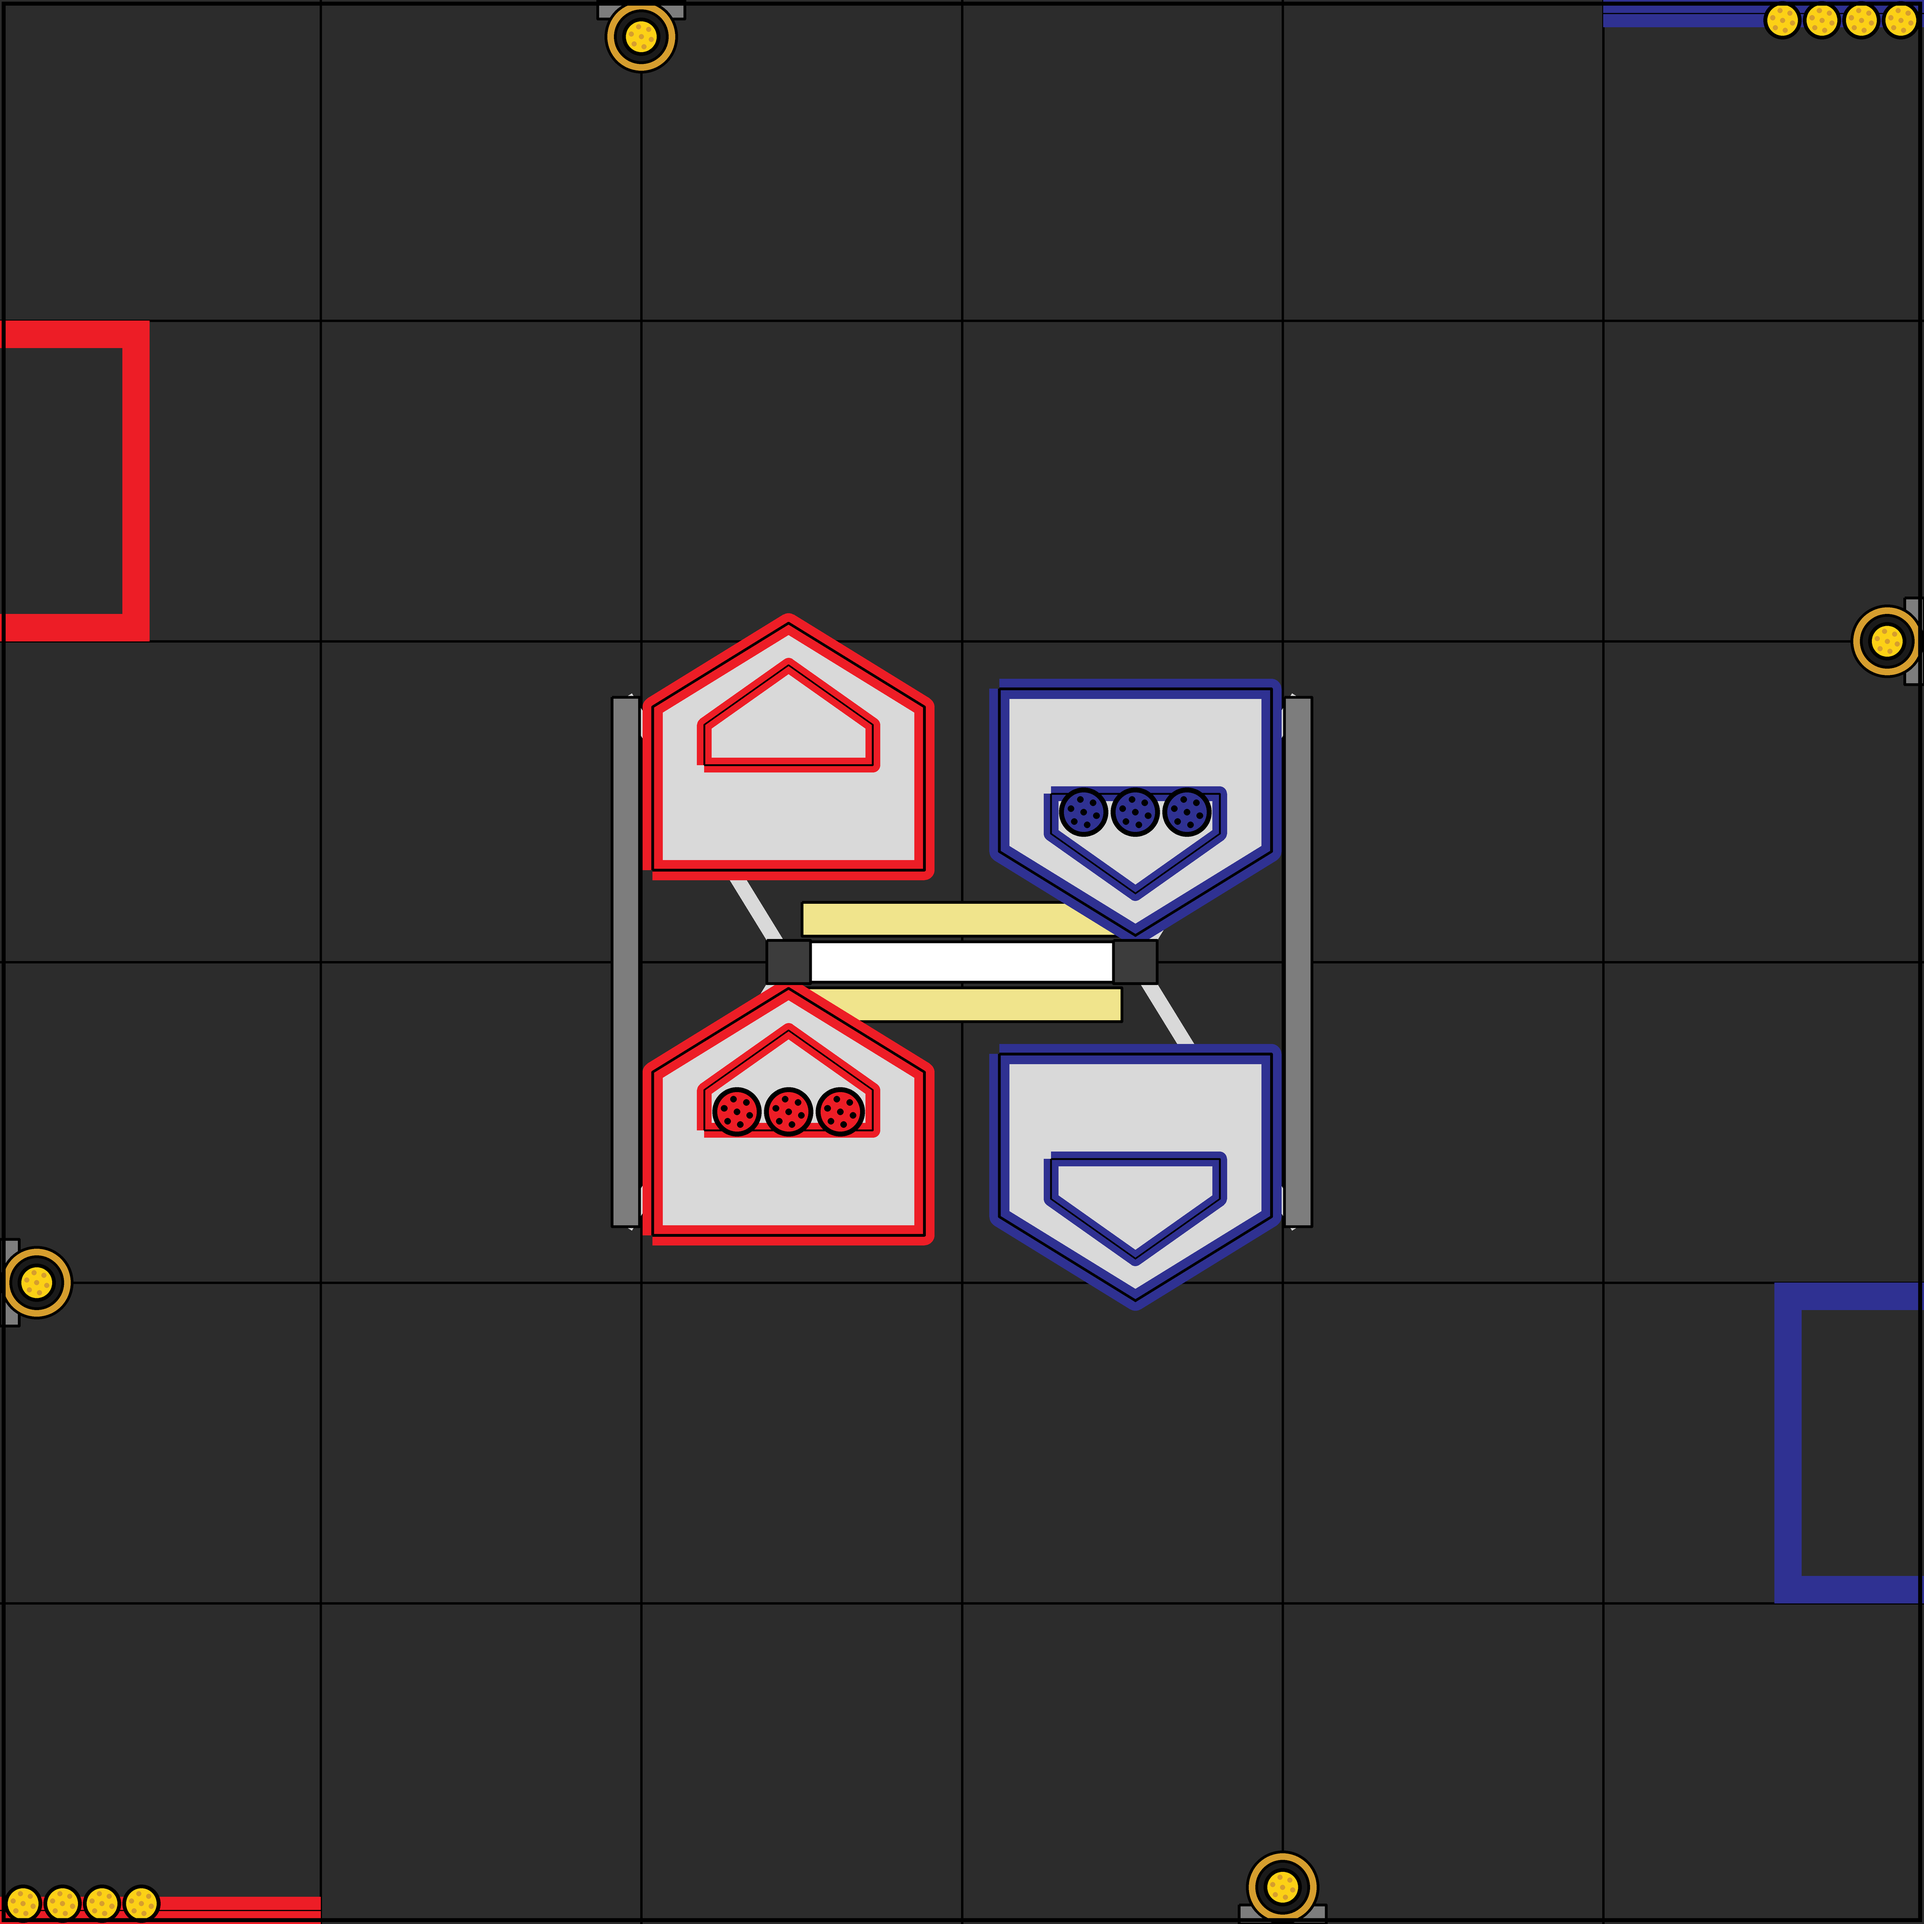
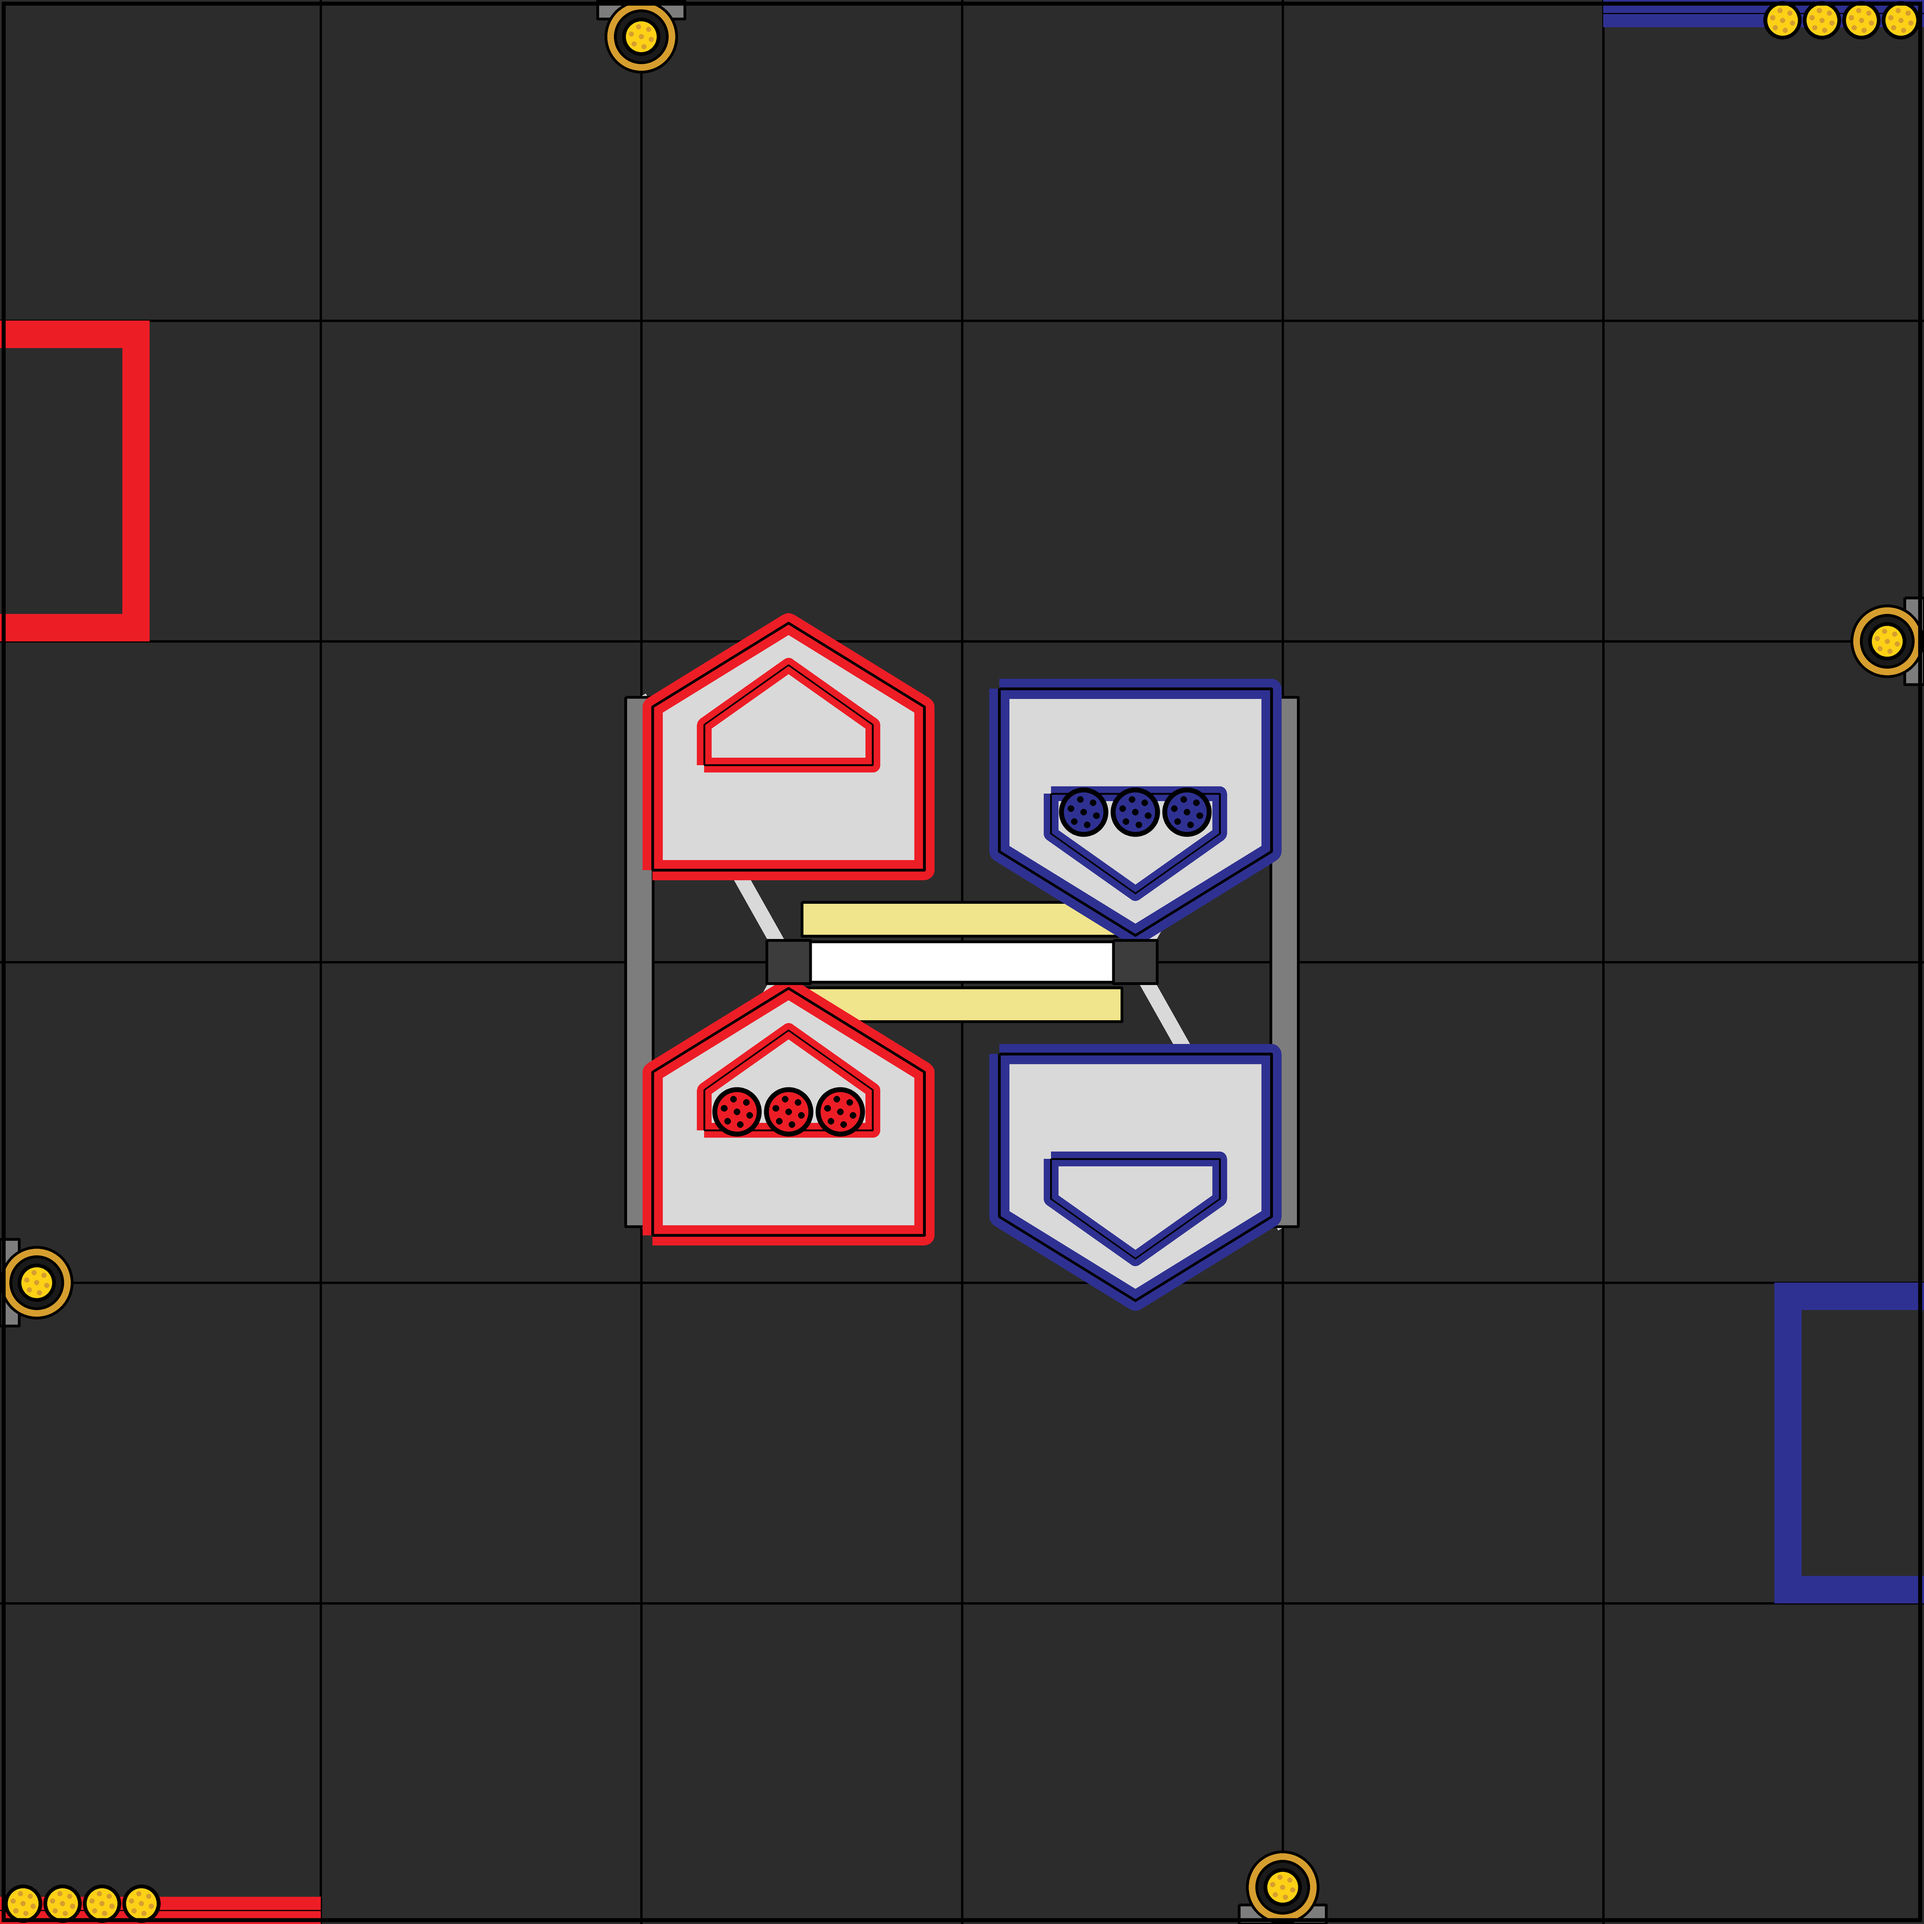
visualizer: BIOBUZZ obstacle is the two HIVE base rails, not the Frame triangles
Operator correction: the HIVE is elevated, so the only thing in a ROBOT's way
in the centre of the FIELD is the pair of rails on the floor.

The preset shipped the two Frame triangles (the legs' floor projection) on the
argument that an 18 in ROBOT clips a leg on the way in. That is wrong in
practice - the centre is a crossing, not a wall - so both triangles are
replaced by the rails themselves: ~2.0 in wide, 38.95 in long (Fig 9-8 frame
depth), outer faces 49.46 in apart (Fig 9-8 frame width). The four FLOWERS are
unchanged: their lower ring sits on the TILES (Sec 9.7), so they are obstacles
all the way down.

Also fixes a 1 in placement error the re-check turned up in biobuzz.webp: the
rails were drawn centred on +/- 49.46/2, which put their outer faces 51.46 in
apart. Fig 9-2 measures the rails ~2.0 in wide with 49.46 in between their
OUTER faces (left rail x 46.0-48.1, right 94.4-96.5 in the figure's nominal
144 in units, outer-to-outer 50.4 nominal = 49.5 real), so frame width is
outside-to-outside and each rail now runs inward from it. Regenerated.

Verified: npm run build green, svelte-check 0/0; preset re-bundled and read
back in node (6 shapes, still recognised as untouched); polygons overlaid on
the regenerated image land exactly on the two grey rails.

Changed region(s): [[0.6562, 0.3438, 0.6875, 0.6562], [0.3125, 0.3438, 0.3438, 0.6562]]

diff --git a/tools/pedro-visualizer/src/config/defaults.ts b/tools/pedro-visualizer/src/config/defaults.ts
@@ -140,34 +140,36 @@ const FIELD_OBSTACLE_PRESETS: Record<string, () => Shape[]> = {
   // scripts/gen_biobuzz_field.py draws biobuzz.webp from, in visualizer
   // coordinates (x = 0 the red wall, y = 0 the audience wall).
   //
-  // The HIVE Structure's CELLS are NOT obstacles: the bottom of a HIVE is
-  // 25.5 in. above the TILES (Fig 9-10) and an FTC ROBOT is at most 18 in.
-  // tall, so a ROBOT drives under them. What is in the way is the Frame -
-  // two triangles, each standing on a base rail against the TILES and leaning
-  // in to its pivot at the centre (Fig 9-8: 49.46 in. between the rails,
-  // 38.95 in. of rail, pivots 25.5 in. apart per Fig 9-10). Each preset shape
-  // is that triangle's floor projection, which is exactly right for an 18 in.
-  // ROBOT and conservative for a shorter one - the legs climb to 43.95 in. at
-  // the apex, so a low ROBOT clears more of the triangle than this says.
+  // Almost none of the HIVE Structure is in a ROBOT's way. The bottom of a
+  // HIVE is 25.5 in. above the TILES (Fig 9-10) and an FTC ROBOT is at most
+  // 18 in. tall, so a ROBOT drives under the CELLS, under the crossbar at
+  // 43.95 in., and under the Frame legs, which climb from the rails to that
+  // apex. What is left on the floor is the two base rails: ~2.0 in. wide,
+  // 38.95 in. long (Fig 9-8 frame depth), 49.46 in. apart outside face to
+  // outside face (Fig 9-8 frame width, measured on Fig 9-2's top view as
+  // outside-to-outside with ~2.0 in. rails). Those two rectangles are the
+  // whole centre-FIELD obstacle.
   "biobuzz.webp": () => [
     {
-      id: "biobuzz-hive-frame-red",
-      name: "HIVE Frame - Red Side",
+      id: "biobuzz-hive-rail-red",
+      name: "HIVE Frame Rail - Red Side",
       vertices: [
-        { x: 45.02, y: 51.28 },
-        { x: 45.02, y: 90.22 },
-        { x: 58.0, y: 70.75 },
+        { x: 46.02, y: 51.28 },
+        { x: 48.02, y: 51.28 },
+        { x: 48.02, y: 90.22 },
+        { x: 46.02, y: 90.22 },
       ],
       color: "#dc2626",
       fillColor: "#ff6b6b",
     },
     {
-      id: "biobuzz-hive-frame-blue",
-      name: "HIVE Frame - Blue Side",
+      id: "biobuzz-hive-rail-blue",
+      name: "HIVE Frame Rail - Blue Side",
       vertices: [
-        { x: 96.48, y: 51.28 },
-        { x: 96.48, y: 90.22 },
-        { x: 83.5, y: 70.75 },
+        { x: 93.48, y: 51.28 },
+        { x: 95.48, y: 51.28 },
+        { x: 95.48, y: 90.22 },
+        { x: 93.48, y: 90.22 },
       ],
       color: "#2563eb",
       fillColor: "#60a5fa",

diff --git a/tools/pedro-visualizer/scripts/gen_biobuzz_field.py b/tools/pedro-visualizer/scripts/gen_biobuzz_field.py
@@ -249,7 +249,11 @@ cell_dy = CELL_H * math.cos(TILT) + CELL_D * math.sin(TILT)   # ~18.1 in
 pair_dy = 26.86                                               # Fig 9-2
 pair_lean = 2.41                                              # Fig 9-2
 
-rail_x = (C - FRAME_W / 2, C + FRAME_W / 2)
+# Fig 9-2 measures the rails ~2.0 in. wide with 49.46 in. between their OUTER
+# faces, so the frame width is outside-to-outside and each rail runs inward
+# from it. rail_x is the rail centreline.
+RAIL_W = 2.0
+rail_x = (C - FRAME_W / 2 + RAIL_W / 2, C + FRAME_W / 2 - RAIL_W / 2)
 pivot_x = (C - HIVE_SEP / 2, C + HIVE_SEP / 2)
 rail_y0, rail_y1 = C - FRAME_D / 2, C + FRAME_D / 2
 
@@ -259,8 +263,8 @@ for rx, px_ in zip(rail_x, pivot_x):
     line([(rx, rail_y0), (px_, C)], LGREY, 1.1)
     line([(rx, rail_y1), (px_, C)], LGREY, 1.1)
 for rx, px_ in zip(rail_x, pivot_x):
-    rect(rx - 1.0, rail_y0, rx + 1.0, rail_y1, fill=GREY, outline=BLACK,
-         w=W_THIN)
+    rect(rx - RAIL_W / 2, rail_y0, rx + RAIL_W / 2, rail_y1, fill=GREY,
+         outline=BLACK, w=W_THIN)
 
 # Crossbar joining the two apexes, carrying both pivots (43.95 in. up).
 rect(pivot_x[0], C - 1.5, pivot_x[1], C + 1.5, fill=WHITE, outline=BLACK,

diff --git a/tools/pedro-visualizer/RUCKUS_NOTES.md b/tools/pedro-visualizer/RUCKUS_NOTES.md
@@ -30,7 +30,7 @@ Local customization:
 - `Settings → Motion Parameters` can read the robot's Pedro 3 `ForesightConfig` straight out of TeamCode, showing each value, what it changes it from, and which `c.<field>.set(...)` it came from — plus what Pedro does not measure and which values TeamCode still carries as placeholders, so the remaining guesses stay visible.
 - The TeamCode exporter validates generated autos, can download a `.java` file, and can save directly to `TeamCode/src/main/java/org/firstinspires/ftc/teamcode/auto/` while running from Vite. Direct saves run `:TeamCode:compileDebugJavaWithJavac` and restore the previous file if the generated Java does not compile.
 - `Settings → Field Map` offers **BIOBUZZ Field (2026-2027)**, the default-list entry above DECODE. `public/fields/biobuzz.webp` is generated, not downloaded: `scripts/gen_biobuzz_field.py` draws it at 4096² from the BIOBUZZ Competition Manual V1 — quoted dimensions where the manual gives them (FLOWER, HIVE frame and CELL, LOADING ZONE, GARDEN, SCORING ELEMENT sizes, Fig 10-2 staging) and measurements off its Figure 9-2 top view, anchored to the TILE seams, where it does not. The script header lists which is which. Orientation follows the manual: audience at the bottom of the image, red ALLIANCE on the left, so in visualizer coordinates x = 0 is the red wall and y = 0 the audience wall. Palette and line weights are sampled from `decode.webp` so the four field maps read as one set. The default field map is unchanged (DECODE).
-- Field obstacles follow the field map. `getDefaultShapes(fieldMap)` returns that field's preset — DECODE's two goals, or BIOBUZZ's HIVE Frame and four FLOWERS — and Into The Deep, Centerstage and custom images start with no obstacles rather than another season's. Picking a different field map in `Settings → Field Map` swaps the obstacles with it; if you have edited them, it asks first and cancelling keeps yours. Loading a project never swaps them: only a user pick reaches the handler, so a saved route keeps the obstacles it was drawn against. The BIOBUZZ preset is what is in the way at drive height, not everything the field has: the HIVE CELLS are 25.5 in above the TILES (Fig 9-10) and an FTC ROBOT is at most 18 in tall, so a ROBOT drives under them and only the Frame's two leaning triangles are obstacles — drawn as their floor projection, exact for an 18 in ROBOT and conservative for a shorter one, since the legs climb to 43.95 in at the apex. The FLOWERS are obstacles all the way down: their lower ring sits on the TILES.
+- Field obstacles follow the field map. `getDefaultShapes(fieldMap)` returns that field's preset — DECODE's two goals, or BIOBUZZ's HIVE Frame and four FLOWERS — and Into The Deep, Centerstage and custom images start with no obstacles rather than another season's. Picking a different field map in `Settings → Field Map` swaps the obstacles with it; if you have edited them, it asks first and cancelling keeps yours. Loading a project never swaps them: only a user pick reaches the handler, so a saved route keeps the obstacles it was drawn against. The BIOBUZZ preset is what is in the way at drive height, not everything the field has. Almost none of the HIVE Structure is: the bottom of a HIVE is 25.5 in above the TILES (Fig 9-10) and an FTC ROBOT is at most 18 in tall, so a ROBOT drives under the CELLS, under the crossbar at 43.95 in, and under the Frame legs climbing to it — the centre of the FIELD is a crossing, not a wall. The obstacle is the two base rails on the floor (~2 in wide, 38.95 in long, 49.46 in apart outside to outside), and nothing else of the HIVE. The FLOWERS are obstacles all the way down: their lower ring sits on the TILES.
 
 Path chaining:
 
